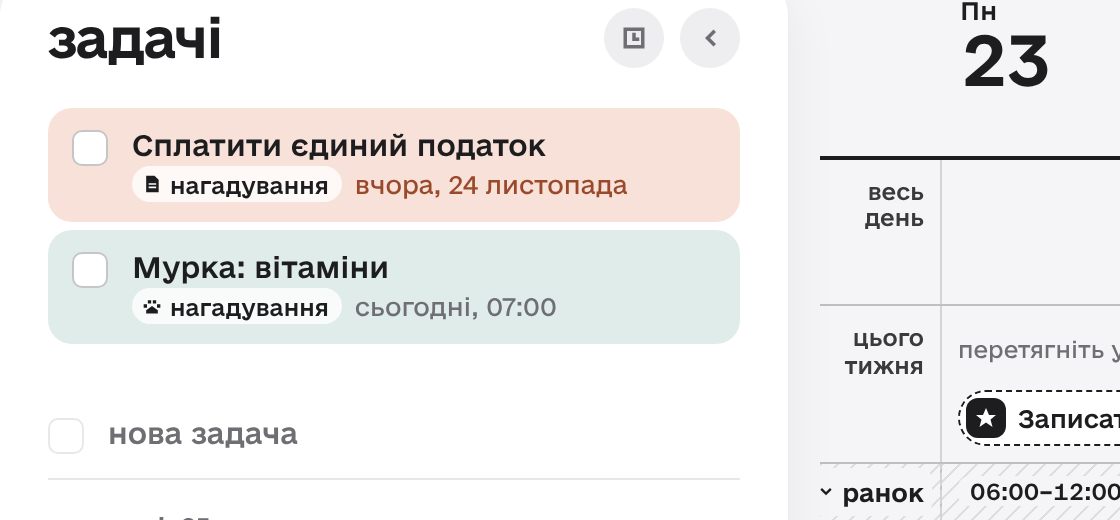
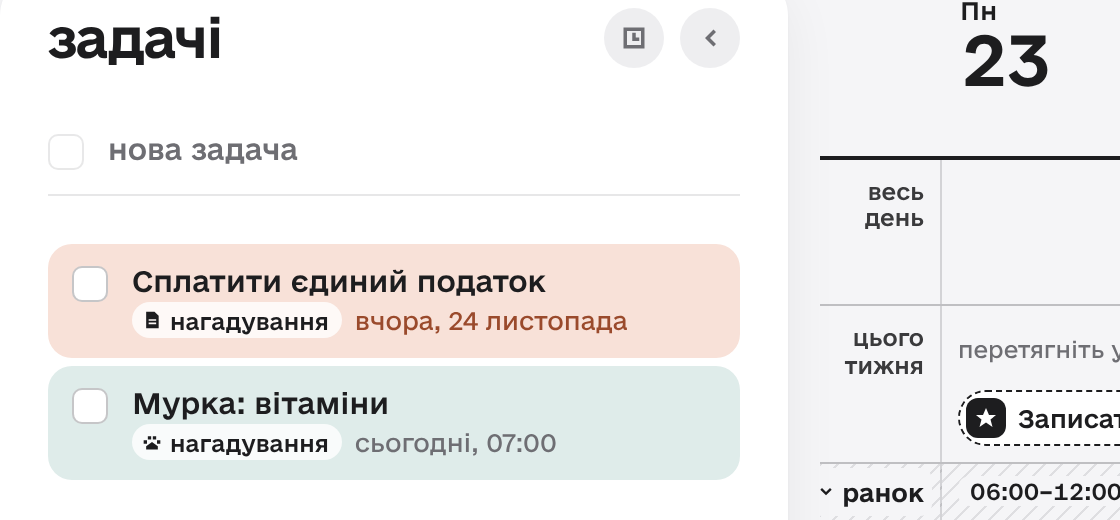
Демо: «нова задача» над нагадуваннями (код робочого d943461), скриншоти промо оновлено
Claude-Session: https://claude.ai/code/session_01Nq77osuAbjNfsPFdJXz9Np

diff --git a/src/components/Tasks.tsx b/src/components/Tasks.tsx
@@ -190,7 +190,7 @@ interface ListProps {
   onChange: (t: Task, next: NewTask, text?: string) => void;
   onRemove: (t: Task) => void;
   onMakeEvent: (t: Task) => void;
-  /** 25.11: нагадування (ФОП, улюбленець) — на самому верху списку, над рядком нової задачі */
+  /** 25.11: нагадування (ФОП, улюбленець) — одразу під рядком нової задачі, над задачами */
   top?: ReactNode;
 }
 
@@ -263,7 +263,6 @@ export function TaskList({ tasks, items, options, sync, onAdd, onChange, onRemov
 
   return (
     <div className="tasks">
-      {top}
       {sync === 'missing' ? (
         <p className="notice warn tasks-missing">
           Щоб задачі запрацювали, оновіть базу: запустіть новий шматок SQL (його надіслано в чаті, файл supabase/schema.sql).
@@ -351,6 +350,7 @@ export function TaskList({ tasks, items, options, sync, onAdd, onChange, onRemov
           )}
         </div>
       )}
+      {top}
       {sync !== 'missing' && shown.length === 0 && (
         <p className="tasks-empty">Тут будуть справи, які треба зробити, але не обовʼязково в певний час. Задачу можна підвʼязати до події — тоді вона зʼявиться в ній чеклістом.</p>
       )}

diff --git a/src/styles.css b/src/styles.css
@@ -2814,3 +2814,5 @@ textarea.qf-title { display: block; height: auto; min-height: 40px; padding: 6px
 }
 .lp-label svg { fill: currentColor; }
 .tasks-dialog .lp-top { margin-bottom: 4px; }
+/* 25.11 (пізніше): рядок «нова задача» — над нагадуваннями; від його лінії до нагадувань 12 */
+.tasks > .lp-remind-sec { margin-top: 12px; }
